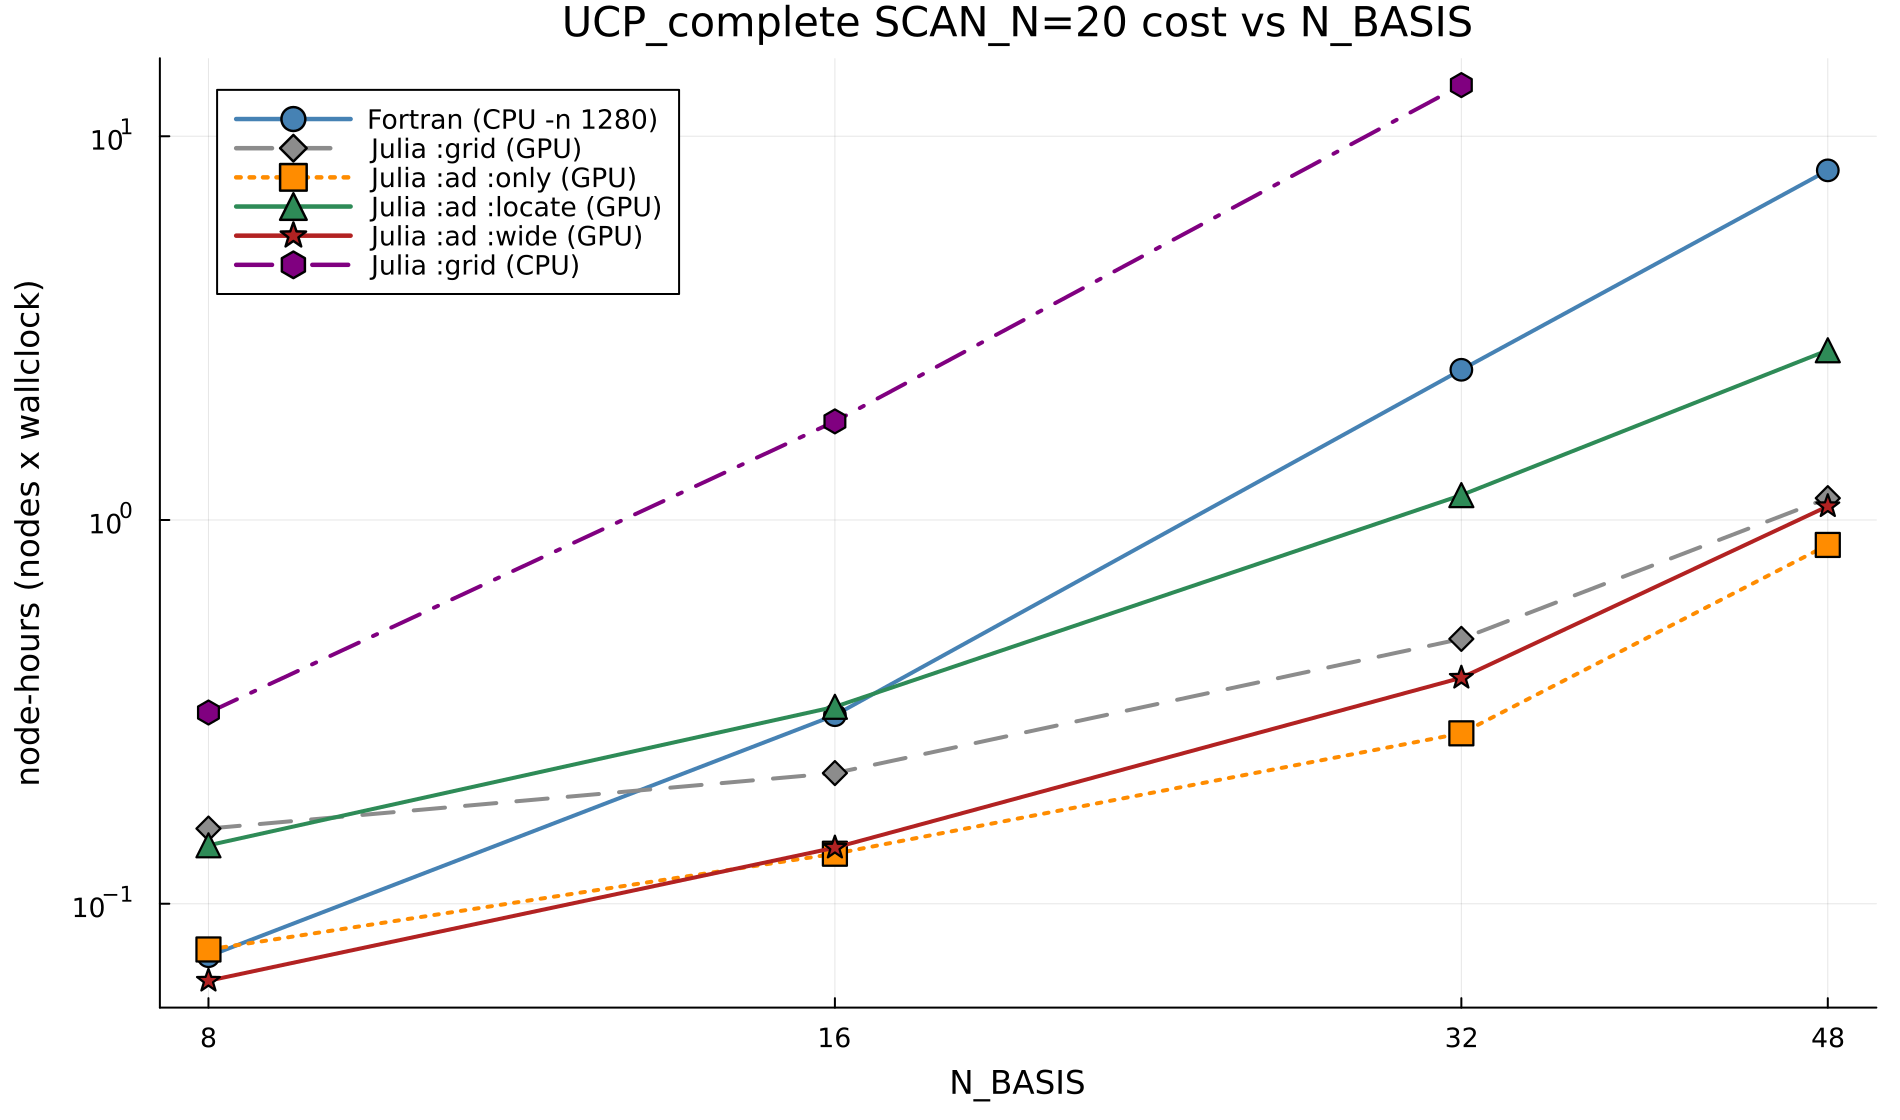
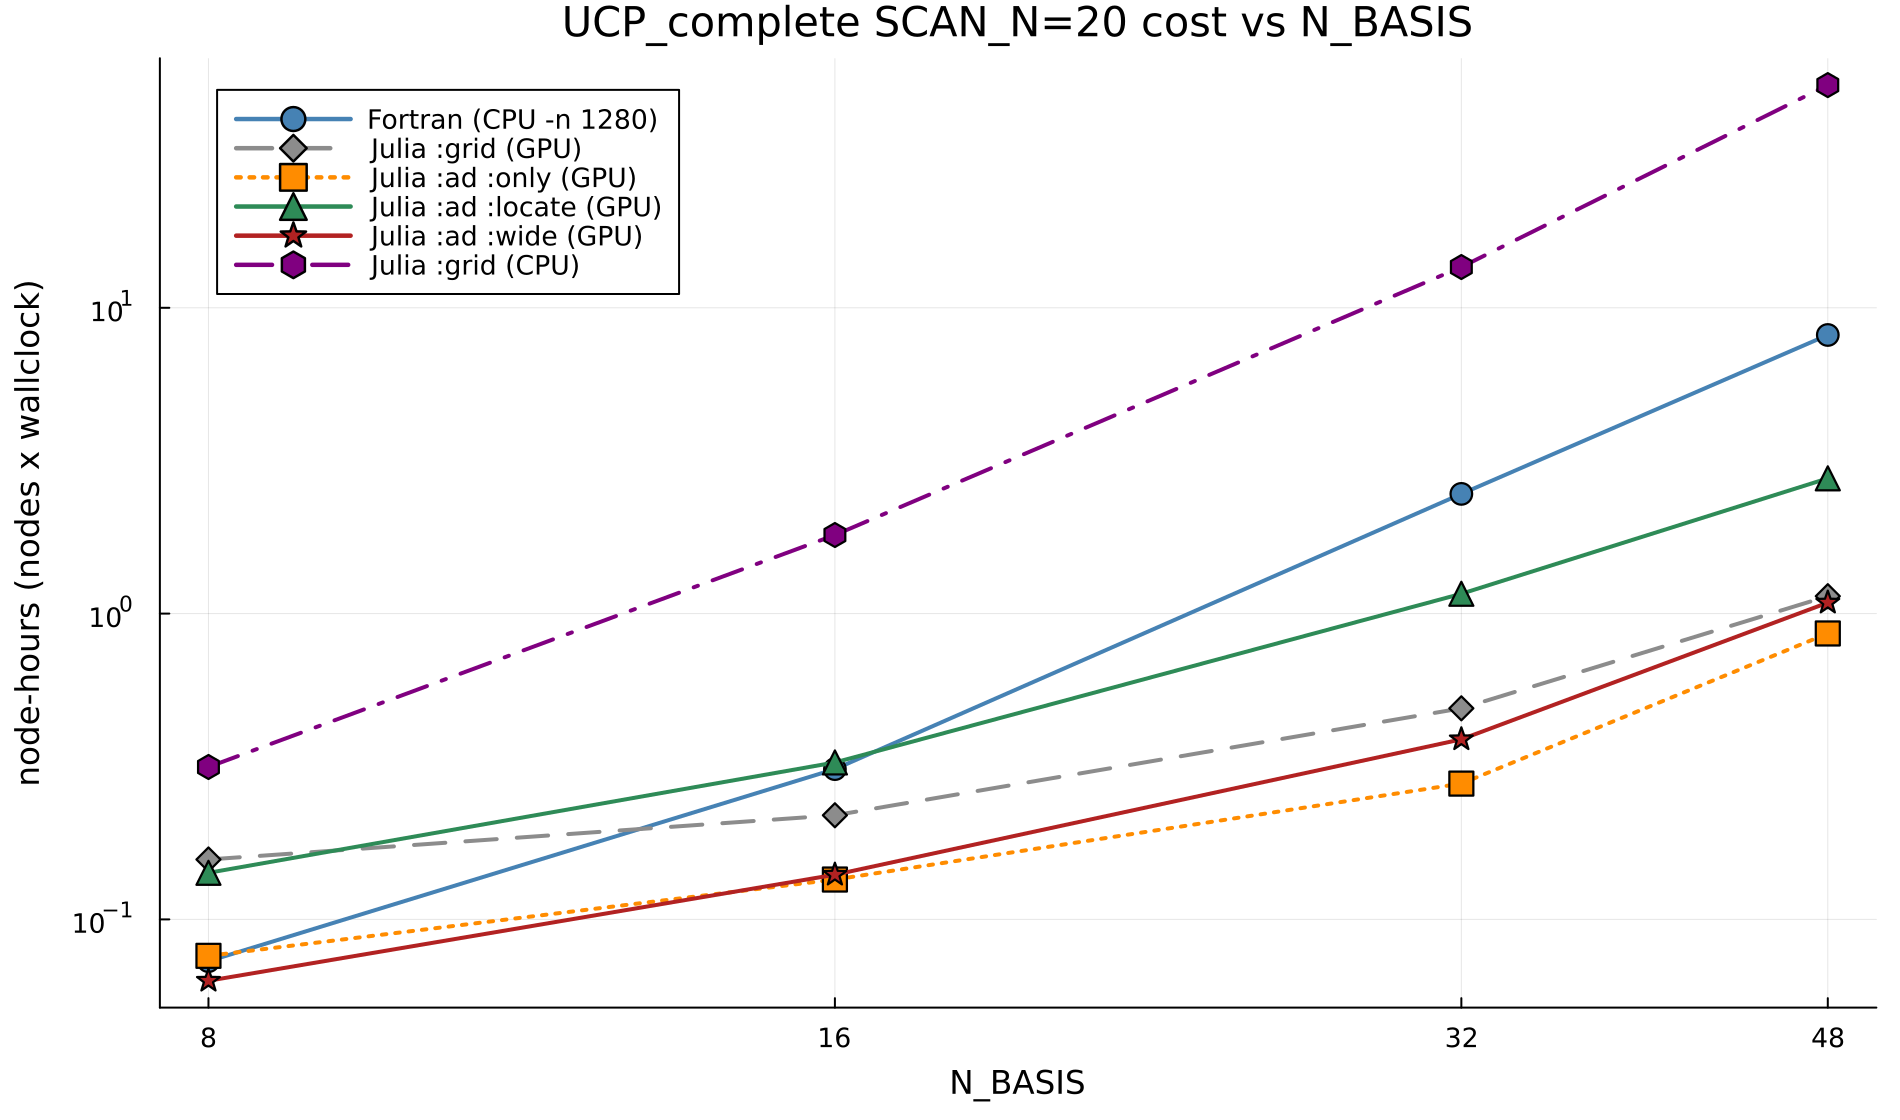
Add the Julia CPU N_BASIS = 48 point to the reactor-case benchmarks
The 10-node CPU `:grid` run at N_BASIS = 48 took 19255.8 s (53.5 node-hours), 6.6x the
Fortran node-hours, and reproduces the GPU critical factors to round-off. Fill the
pending table cell, extend the CPU line in the timing CSV and node-hours plot, and
widen the quoted CPU slowdown range to ~4-7x.

diff --git a/docs/BENCHMARKS.md b/docs/BENCHMARKS.md
@@ -97,12 +97,12 @@ basis dynamically, so the Julia solvers run any `N_BASIS` unmodified.
 | 8  | 26.2   | 113.3   | 113.0 | 0.23× |
 | 16 | 111.5  | 650.4   | 158.0 | 0.71× |
 | 32 | 886.9  | 4893.2  | 353.0 | **2.51×** |
-| 48 | 2933.5 | (pending) | 821.0 | **3.57×** |
+| 48 | 2933.5 | 19255.8 | 821.0 | **3.57×** |
 
 (Wallclock here compares a **5-node** GPU run to a **10-node** `-n 1280` Fortran run
 — *half* the nodes — so it understates the GPU, yet it still wins 2.5× at
 `N_BASIS=32` and 3.6× at 48; the fair node-count-normalized margins are ~5.0× and
-~7.1×. Julia `:grid` on CPU, on the same 10 nodes as Fortran, is a steady ~4–6×
+~7.1×. Julia `:grid` on CPU, on the same 10 nodes as Fortran, is ~4–7×
 *slower* at every `N_BASIS`, so the GPU is doing the heavy lifting. The 48
 Fortran time uses the `nb=48` rebuild described above.)
 
